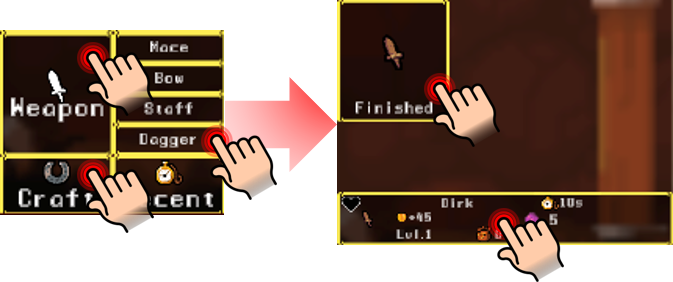
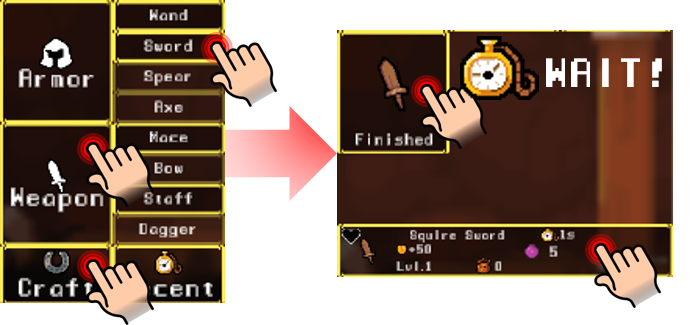
Finalized progression of item unlocks.

diff --git a/Shop Click/Assets/Scripts/Global.cs b/Shop Click/Assets/Scripts/Global.cs
@@ -320,25 +320,44 @@ public class Global : MonoBehaviour
         {
             // Start off with only basic iron items
             //inventory["axe_1"].SetIsAvailable(true); inventory["axe_1"].SetStock(0);
-            inventory["dagger_1"].SetIsAvailable(true); inventory["dagger_1"].SetStock(0);
+            //inventory["dagger_1"].SetIsAvailable(true); inventory["dagger_1"].SetStock(0);
             //inventory["spear_1"].SetIsAvailable(true); inventory["spear_1"].SetStock(1);
             //inventory["bow_1"].SetIsAvailable(true); inventory["bow_1"].SetStock(1);
-            inventory["harmor_1"].SetIsAvailable(true); inventory["harmor_1"].SetStock(0);
+            //inventory["harmor_1"].SetIsAvailable(true); inventory["harmor_1"].SetStock(0);
             //inventory["larmor_1"].SetIsAvailable(true); inventory["larmor_1"].SetStock(1);
-            inventory["helmet_1"].SetIsAvailable(true); inventory["helmet_1"].SetStock(0);
+            //inventory["helmet_1"].SetIsAvailable(true); inventory["helmet_1"].SetStock(0);
             //inventory["headgear_1"].SetIsAvailable(true); inventory["headgear_1"].SetStock(0);
             //inventory["hat_1"].SetIsAvailable(true); inventory["hat_1"].SetStock(1);
-            inventory["gauntlets_1"].SetIsAvailable(true); inventory["gauntlets_1"].SetStock(0);
-            inventory["boots_1"].SetIsAvailable(true); inventory["boots_1"].SetStock(0);
+            //inventory["gauntlets_1"].SetIsAvailable(true); inventory["gauntlets_1"].SetStock(0);
+            //inventory["boots_1"].SetIsAvailable(true); inventory["boots_1"].SetStock(0);
             //inventory["shield_1"].SetIsAvailable(true); inventory["shield_1"].SetStock(0);
             //inventory["potion_1"].SetIsAvailable(true); inventory["potion_1"].SetStock(0);
+
+            // These must be unlocked to ensure all items can be made
+            inventory["sword_1"].SetIsAvailable(true);
+            inventory["mace_1"].SetIsAvailable(true);
+            inventory["staff_1"].SetIsAvailable(true);
+            inventory["wand_1"].SetIsAvailable(true);
+            inventory["crossbow_1"].SetIsAvailable(true);
+            inventory["gun_1"].SetIsAvailable(true);
+            inventory["medicine_1"].SetIsAvailable(true);
+            inventory["magic_1"].SetIsAvailable(true);
+            inventory["harmor_1"].SetIsAvailable(true);
+            inventory["clothing_1"].SetIsAvailable(true);
+            inventory["gloves_1"].SetIsAvailable(true);
+            inventory["shoes_1"].SetIsAvailable(true);
+            inventory["ring_1"].SetIsAvailable(true);
+            inventory["amulet_1"].SetIsAvailable(true);
+            inventory["runestone_1"].SetIsAvailable(true);
+            inventory["enchantment_1"].SetIsAvailable(true);
+            inventory["spirit_1"].SetIsAvailable(true);
         }
 
         // For the tutorial
-        inventory["spear_1"].SetStock(1);
-        inventory["bow_1"].SetStock(1);
-        inventory["larmor_1"].SetStock(1);
-        inventory["helmet_1"].SetStock(1);
+        inventory["sword_1"].SetStock(1);
+        inventory["staff_1"].SetStock(1);
+        inventory["shoes_1"].SetStock(1);
+        inventory["clothing_1"].SetStock(1);
 
         // Make every item craft time 10s to test upgrade time reduction
         foreach(var kvp in inventory)

diff --git a/Shop Click/Assets/Scripts/Shop.cs b/Shop Click/Assets/Scripts/Shop.cs
@@ -389,12 +389,12 @@ public class Shop : MonoBehaviour
 
         panelBonusButton.SetActive(true);
 
-        Tutorial.instance.SummonUIOverlayTextBoxImageSmall("Congrats!", "You're ready to take over my shop.\n\nSwipe down to go to town.\n\nGood luck!\n\n- Bigly", "Images/UI/hand_swipe_static_up");
+        Tutorial.instance.SummonUIOverlayTextBoxImageSmall("Congrats!", "You're ready to take over my shop.\n\nSwipe up to go to town.\n\nGood luck!\n\n- Bigly", "Images/UI/hand_swipe_static_up");
     }
     public void TutorialFirstCustomer()
     {
         Debug.Log("First tutorial customer: Selling an item.");
-        currentItem = Global.instance.GetInventory()["bow_1"];
+        currentItem = Global.instance.GetInventory()["sword_1"];
 
         // Update Item Sprite.
         UpdateSpriteItem();
@@ -424,7 +424,7 @@ public class Shop : MonoBehaviour
     public void TutorialSecondCustomer()
     {
         Debug.Log("Second tutorial customer: Rebating an item to get energy.");
-        currentItem = Global.instance.GetInventory()["spear_1"];
+        currentItem = Global.instance.GetInventory()["staff_1"];
 
         // Update Item Sprite.
         UpdateSpriteItem();
@@ -455,7 +455,7 @@ public class Shop : MonoBehaviour
     public void TutorialThirdCustomer()
     {
         Debug.Log("Third tutorial customer: Spending energy to upcharge");
-        currentItem = Global.instance.GetInventory()["larmor_1"];
+        currentItem = Global.instance.GetInventory()["shoes_1"];
 
         // Update Item Sprite.
         UpdateSpriteItem();
@@ -518,7 +518,7 @@ public class Shop : MonoBehaviour
     public void TutorialFifthCustomer()
     {
         Debug.Log("Fifth tutorial customer: We don't have but we can make, go to Mine.");
-        currentItem = Global.instance.GetInventory()["dagger_1"];
+        currentItem = Global.instance.GetInventory()["sword_1"];
 
         // Update Item Sprite.
         UpdateSpriteItem();
@@ -546,7 +546,7 @@ public class Shop : MonoBehaviour
         Tutorial.instance.IncrementID_TUTORIAL_EVENT();
 
         // Instructions to swipe to go left
-        Tutorial.instance.SummonUIOverlayTextBoxImageSmall("Crafting", "We are out of Dirks.\n\nSwipe right to go to the Mine to craft another one.\n\n- Bigly", "Images/UI/hand_swipe_static_right");
+        Tutorial.instance.SummonUIOverlayTextBoxImageSmall("Crafting", "Squire Swords are out of stock.\n\nSwipe right to go to the Mine to craft another one.\n\n- Bigly", "Images/UI/hand_swipe_static_right");
     }
 
     public void TutorialSixthCustomer()

diff --git a/Shop Click/Assets/Scripts/Town.cs b/Shop Click/Assets/Scripts/Town.cs
@@ -45,6 +45,24 @@ public class Town : MonoBehaviour
         panelTownWorkers[6].SetActive(false); // resource_6
         panelTownWorkers[7].SetActive(false); // resource_7
         
+        // Disable these last four workers right now, not implemented
+        for(int i = 8; i < 12; i++)
+        {
+            panelTownWorkers.Add(panelTownWorker.transform.GetChild(i).gameObject);
+            //panelTownWorkers[i].transform.GetChild(0).transform.GetChild(0).GetComponent<Image>().sprite = Resources.Load<Sprite>(filepathImageCharacter[i]);
+            //panelTownWorkers[i].transform.GetChild(0).transform.GetChild(1).GetComponent<Image>().sprite = Resources.Load<Sprite>(Global.instance.GetResources()[idResource[i]].GetFilepathImage());
+            //panelTownWorkers[i].transform.GetChild(0).transform.GetChild(2).GetComponent<TextMeshProUGUI>().text = idLabel[i];
+        
+            // TODO: First eight are the workers that deal with resources (for now)
+            //tMProResourceLevels.Add( panelTownWorker.transform.GetChild(i).transform.GetChild(0).transform.GetChild(3).GetComponent<TextMeshProUGUI>() );
+            //tMProResourceRates.Add( panelTownWorker.transform.GetChild(i).transform.GetChild(0).transform.GetChild(4).GetComponent<TextMeshProUGUI>() );
+        }
+        panelTownWorkers[8].SetActive(false); // resource_4
+        panelTownWorkers[9].SetActive(false); // resource_5
+        panelTownWorkers[10].SetActive(false); // resource_6
+        panelTownWorkers[11].SetActive(false); // resource_7
+
+
     }
 
     public void UpdatePanelTownWorker()

diff --git a/Shop Click/Assets/Scripts/CameraControl.cs b/Shop Click/Assets/Scripts/CameraControl.cs
@@ -217,7 +217,7 @@ public class CameraControl : MonoBehaviour
                 //Debug.Log("At Shop, going down to Town");
                 if(!Tutorial.instance.SEEN_UIOVERLAYTEXTBOX_TOWN_1)
                 {
-                    Tutorial.instance.SummonUIOverlayTextBoxImageLarge("Upgrading", "Click on your workers to upgrade resource rates and caps.\n\nYou'll unlock new workers as you upgrade!\n\n- Bigly", "Images/Tutorial/town");
+                    Tutorial.instance.SummonUIOverlayTextBoxImageLarge("Upgrading", "Click on your workers to upgrade resource rates and caps.\n\nNew workers will unlock as you upgrade.", "Images/Tutorial/town");
                     Tutorial.instance.SEEN_UIOVERLAYTEXTBOX_TOWN_1 = true;
                     
                     // Make basic resource buttons interactable at tutorial end.
@@ -280,7 +280,7 @@ public class CameraControl : MonoBehaviour
                 //Debug.Log("At Shop, going left to Mine");
                 if(!Tutorial.instance.SEEN_UIOVERLAYTEXTBOX_SHOP_1)
                 {
-                    Tutorial.instance.SummonUIOverlayTextBoxImageLarge("Crafting", "Craft new items using this menu:\n\n- Bigly", "Images/Tutorial/shop");
+                    Tutorial.instance.SummonUIOverlayTextBoxImageLarge("Crafting", "Craft new items from the bottom menu buttons.\n\nOnce items are finished being crafted, click on them to add to your inventory.", "Images/Tutorial/shop");
                     Tutorial.instance.SEEN_UIOVERLAYTEXTBOX_SHOP_1 = true;
                 }
                 CameraPosition("Mine");

diff --git a/Shop Click/Assets/Scripts/AdManager.cs b/Shop Click/Assets/Scripts/AdManager.cs
@@ -88,7 +88,7 @@ public class AdManager : MonoBehaviour
     public void HandleRewardBasedVideoOpened(object sender, EventArgs args){ }
     public void HandleRewardBasedVideoStarted(object sender, EventArgs args){ }
     public void HandleRewardBasedVideoClosed(object sender, EventArgs args){ RequestAdRewardedVideo(); }
-    public void HandleRewardBasedVideoRewarded(object sender, Reward args){ adRewardedVideoRewarded += 1; Global.instance.GetStats()["Gems"].IncrementAmount(); string type = args.Type; double amount = args.Amount; }
+    public void HandleRewardBasedVideoRewarded(object sender, Reward args){ adRewardedVideoRewarded += 10; Global.instance.GetStats()["Gems"].IncrementAmount(); string type = args.Type; double amount = args.Amount; }
     public void HandleRewardBasedVideoLeftApplication(object sender, EventArgs args){ } // Warning this happens multiple times per click-through
 
 }
